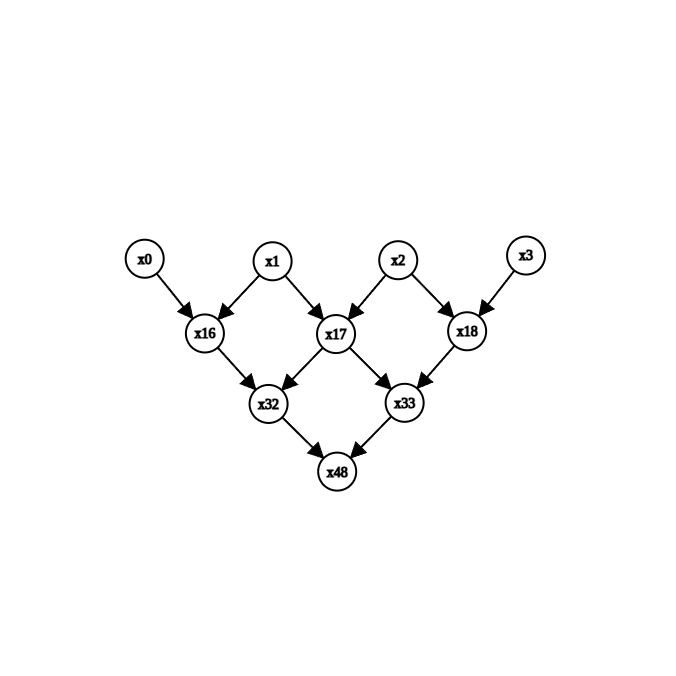
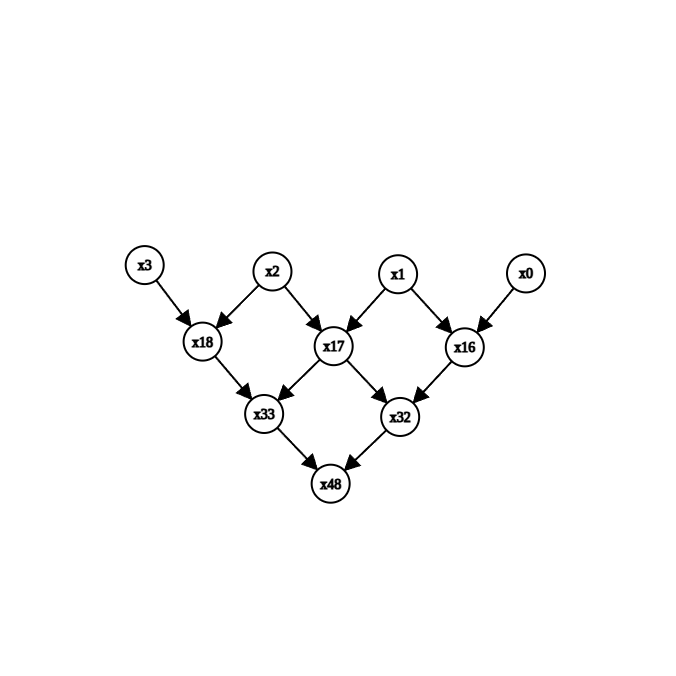
c

Changed region(s): [[0.2485, 0.3417, 0.7456, 0.7456], [0.7456, 0.3417, 0.8077, 0.4349], [0.1864, 0.3417, 0.2485, 0.4349]]

diff --git a/casino.md b/casino.md
@@ -1,0 +1,32 @@
+# rps-casino
+## The ctf
+We have a custom LFSR rng, and we have 56 free observations to make before being able to fully predict it. 
+This is the generator:
+```python
+def LFSR():
+	state = bytes_to_long(os.urandom(8))
+	print("secret : ", state)
+	while 1:
+		yield state & 0xf
+		for i in range(4):
+			bit = (state ^ (state >> 1) ^ (state >> 3) ^ (state >> 4)) & 1
+			state = (state >> 1) | (bit << 63)
+
+rng = LFSR()
+```
+For 56 times, the server will give us the value of `next(rng) % 3`, then we have to guess for 50 times the next values of `next(rng) % 3`
+
+## Observations
+Now we can see that each time we generate a random 4-bits number, which is just `state&0xf`, four new MSBs are created. 
+We can see that the new bits only depend on the 8 LSBs of the state at the time `next(rng)` is called. 
+Now let's number the ith rng value we're getting, let's call it $x_i$. 
+This basically means that our initial state will be $x_{15}, x_{14} ..., x_0$, concatenated in a single integer (each $x_i$ is a 4 bit number, 4*16 = 64).
+Also $x_{16}$ only depends on the 8 LSBs of state, which are $x_0$ and $x_1$. This means that by repeating this step, $x_i$ depends on $x_{i-15}$ and $x_{i-16}$. 
+We can build this "dependency graph":
+
+(![https](https://github.com/podd0/dice-24-quals-writeup/graph.png))
+
+An $x_i$ is generated by all the nodes pointing at it. This also shows that there's a nice number of constraints on each 16 adjacent bits, we can try to bruteforce all 
+the possible values of $x_0, x_1, x_2, x_3$ that are coherent with the data we have on the rng. This means we just make a list of all the values that give the same moduli
+in the rng queries shown in the image as the ones we get from the server
+
